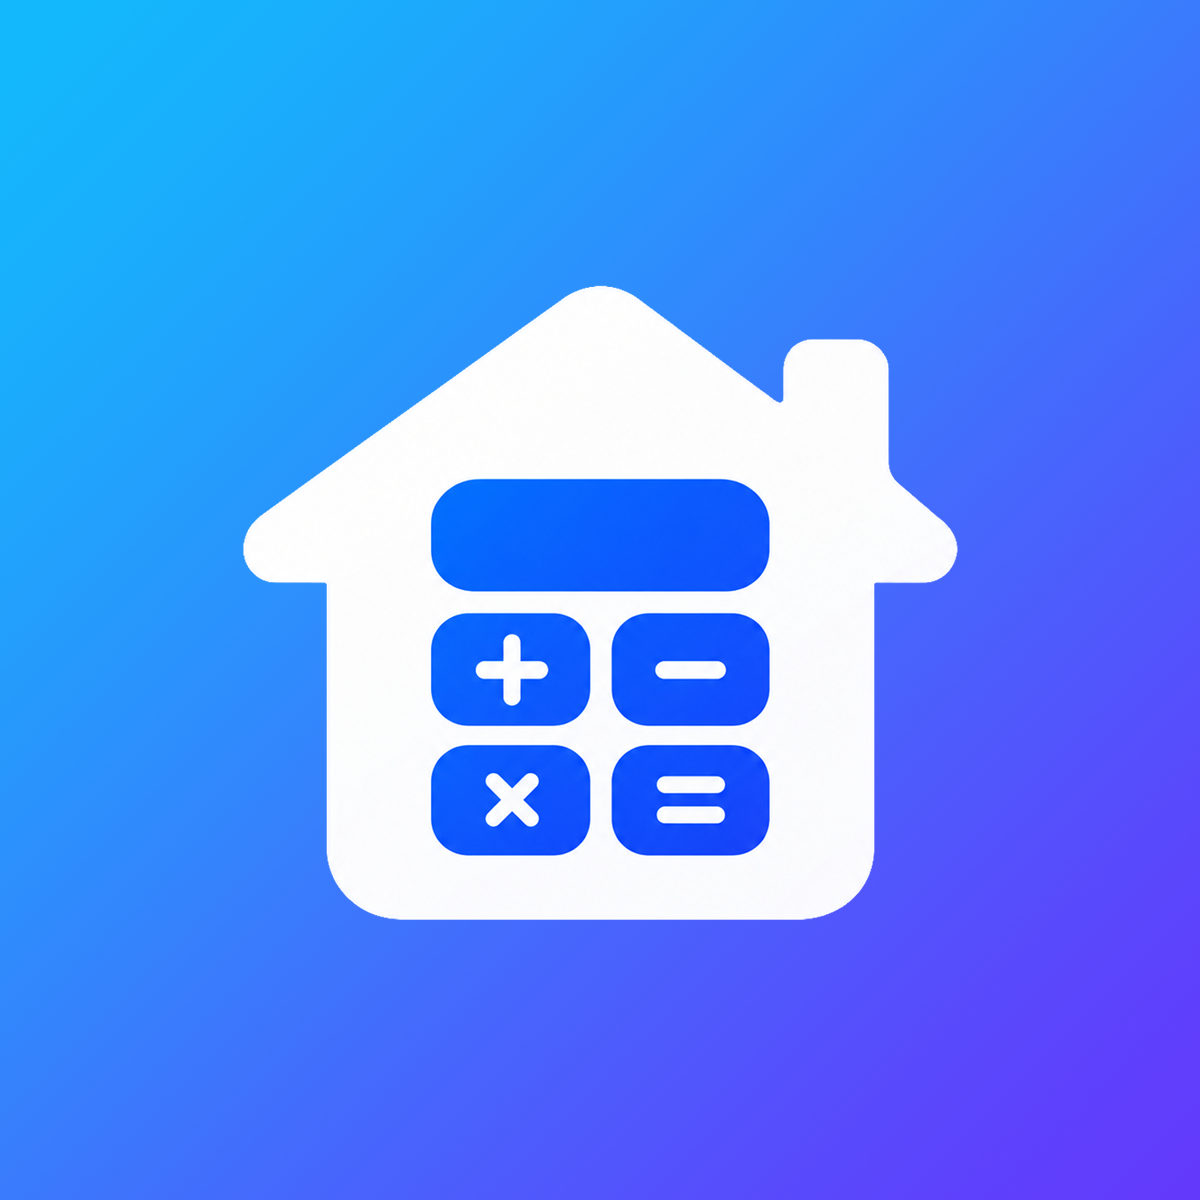
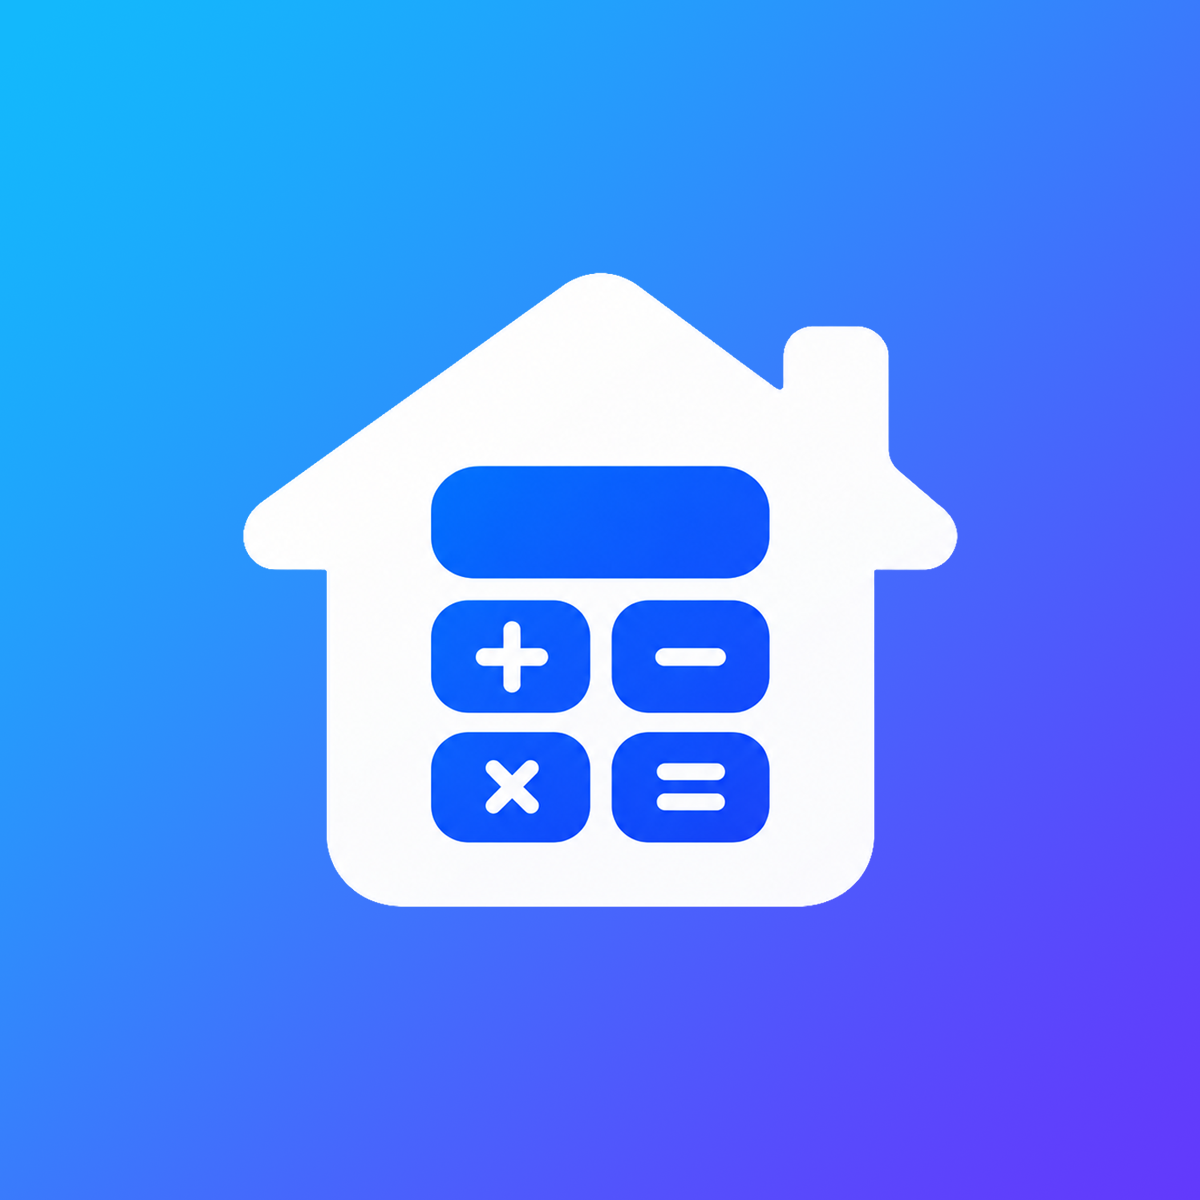
v1.2.2: 앱 아이콘 교체, 환율 기준일·원화 한글 금액, 오프라인 시 마지막 자료 사용, 탭 선택 초기화, 날짜·음력 상단 여백과 음력 글자 크기
Claude-Session: https://claude.ai/code/session_011hLXDGTAa6cmDnXULyPVgt

diff --git a/www/js/tools/exchange.js b/www/js/tools/exchange.js
@@ -87,12 +87,14 @@
       const swap = ui.el('<button type="button" class="swap-btn" aria-label="통화 바꾸기">' + LC.icon('swap', { sw: 2 }) + '</button>');
       const g2 = ui.el('<div class="group"><div class="row"><button type="button" class="cur-btn" data-to aria-label="받을 통화 선택"></button>' +
         '<div class="field"><span class="unit" data-to-sym></span><input type="text" aria-label="받을 금액"/></div></div><div class="field-hint" data-to-name></div></div>');
-      conv.append(g1, swap, g2);
+      const basisLine = ui.el('<div class="fx-basis"></div>');
+      conv.append(g1, swap, g2, basisLine);
       page.appendChild(conv);
       const amountInput = g1.querySelector('input');
-      ui.bindNumber(amountInput, { decimals: 4, maxDigits: 15, value: st.amount, onChange: v => { st.amount = v; st.edited = 'from'; st.save(); calc(); } });
+      // 계산되는 쪽은 비워 두고 시작 (환율 자료가 있을 때만 채움)
+      ui.bindNumber(amountInput, { decimals: 4, maxDigits: 15, value: st.edited === 'to' ? '' : st.amount, onChange: v => { st.amount = v; st.edited = 'from'; st.save(); calc(); } });
       const toInput = g2.querySelector('input');
-      ui.bindNumber(toInput, { decimals: 4, maxDigits: 15, value: st.toAmount, onChange: v => { st.toAmount = v; st.edited = 'to'; st.save(); calc(); } });
+      ui.bindNumber(toInput, { decimals: 4, maxDigits: 15, value: st.edited === 'to' ? st.toAmount : '', onChange: v => { st.toAmount = v; st.edited = 'to'; st.save(); calc(); } });
       [amountInput, toInput].forEach(i => { i.style.fontSize = '22px'; i.style.fontWeight = '700'; });
       const btnFrom = g1.querySelector('[data-from]'), btnTo = g2.querySelector('[data-to]');
       function syncBtns() {
@@ -166,9 +168,17 @@
       function rate(c) { return c === 'usd' ? 1 : data.rates[c]; }
       function krwPer(c, d) { const r = d || data; return r.rates.krw / (c === 'usd' ? 1 : r.rates[c]); }
 
+      // 통화 이름 + 원화일 때 한글 금액 (예: 13만 3,190원)
+      function hints() {
+        const h = (code, val) => {
+          const n = F.parseNum(val);
+          return ui.esc(cur(code).n) + (code === 'krw' && n >= 1 ? ' <span class="kr-amt">' + F.koreanAmount(Math.round(n)) + '</span>' : '');
+        };
+        g1.querySelector('[data-from-name]').innerHTML = h(st.from, st.amount);
+        g2.querySelector('[data-to-name]').innerHTML = h(st.to, st.toAmount);
+      }
       function calc() {
-        g1.querySelector('[data-from-name]').textContent = cur(st.from).n;
-        g2.querySelector('[data-to-name]').textContent = cur(st.to).n;
+        hints();
         g2.querySelector('[data-to-sym]').textContent = cur(st.to).s;
         if (!data || !rate(st.from) || !rate(st.to)) return;
         // 입력한 쪽을 기준으로 반대쪽 금액 계산 (위↔아래 양방향)
@@ -177,11 +187,11 @@
         if (st.edited === 'to') {
           const b = F.parseNum(st.toAmount);
           if (!(b >= 0)) { amountInput.value = ''; return; }
-          st.amount = b / r; amountInput.setNumber(out(st.amount, st.from));
+          st.amount = b / r; amountInput.setNumber(out(st.amount, st.from)); hints();
         } else {
           const a = F.parseNum(st.amount);
           if (!(a >= 0)) { toInput.value = ''; return; }
-          st.toAmount = a * r; toInput.setNumber(out(st.toAmount, st.to));
+          st.toAmount = a * r; toInput.setNumber(out(st.toAmount, st.to)); hints();
         }
         st.save();
       }
@@ -216,6 +226,7 @@
         if (!data) list.innerHTML = '<div class="row"><span class="skeleton" style="width:100%">loading</span></div>'.repeat(5);
         try {
           data = await LC.market.fxLatest(force);
+          basisLine.innerHTML = data.date + ' 기준 환율 · 하루 1회 갱신' + (data.stale ? ' · <b class="down">인터넷 연결 없음 — 마지막으로 받은 환율</b>' : '');
           status.innerHTML = '<span>기준일 ' + data.date + (data.stale ? ' · <b class="down">오프라인(저장된 시세)</b>' : '') + '</span><span>' + LC.ago(data.cachedAt) + ' 확인</span>';
           calc(); drawList();
           try { prev = await LC.market.fxOn(prevDate(data.date)); drawList(); } catch (e) { /* 전일 데이터 없음 */ }

diff --git a/www/js/net.js b/www/js/net.js
@@ -45,7 +45,20 @@
     throw lastErr || new Error('no data');
   }
 
+  // 접두어가 같은 저장 자료 중 가장 최근 것
+  function lastCacheWithPrefix(prefix) {
+    let best = null;
+    try {
+      Object.keys(localStorage).filter(k => k.startsWith('lifecalc.' + prefix)).forEach(k => {
+        const v = JSON.parse(localStorage.getItem(k));
+        if (v && (!best || v.t > best.t)) best = v;
+      });
+    } catch (e) {}
+    return best;
+  }
+
   // 캐시: 유효시간 안이면 저장값, 실패 시 오래된 값이라도 반환(stale 표시)
+  // 저장된 값이 전혀 없으면 오류 → 화면에서 값을 표시하지 않음
   async function cached(key, maxAgeMs, loader, force) {
     const c = store.get('cache.' + key, null);
     if (!force && c && Date.now() - c.t < maxAgeMs) return Object.assign({ cachedAt: c.t }, c.data);
@@ -175,11 +188,20 @@
     }), force);
   }
   async function weatherArchive(lat, lon, start, end) {
-    const key = 'wx.a.' + lat.toFixed(2) + ',' + lon.toFixed(2) + '.' + start + '.' + end;
-    store.removePrefix('cache.wx.a.', 'cache.' + key); // 과거 자료는 최근 조회 1건만 보관 (저장공간 절약)
-    return cached(key, 7 * 864e5, async () => ({
-      days: await wxGet('https://archive-api.open-meteo.com/v1/archive', ll(lat, lon) + '&start_date=' + start + '&end_date=' + end)
-    }));
+    const loc = 'wx.a.' + lat.toFixed(2) + ',' + lon.toFixed(2) + '.';
+    const key = loc + start + '.' + end;
+    try {
+      const r = await cached(key, 7 * 864e5, async () => ({
+        days: await wxGet('https://archive-api.open-meteo.com/v1/archive', ll(lat, lon) + '&start_date=' + start + '&end_date=' + end)
+      }));
+      store.removePrefix('cache.wx.a.', 'cache.' + key); // 과거 자료는 최근 조회 1건만 보관 (저장공간 절약)
+      return r;
+    } catch (e) {
+      // 인터넷이 안 될 때: 같은 지역의 마지막으로 받은 과거 자료 사용
+      const old = lastCacheWithPrefix('cache.' + loc);
+      if (old) return Object.assign({ cachedAt: old.t, stale: true }, old.data);
+      throw e;
+    }
   }
   LC.weather = { recent: weatherRecent, archive: weatherArchive };
 

diff --git a/www/js/tools/lunar.js b/www/js/tools/lunar.js
@@ -33,15 +33,16 @@
     id: 'lunar', title: '음력 변환', short: '음력', icon: 'lunar', color: ['#7D7AFF', '#5856D6'],
     render(page) {
       const t = F.todayYMD();
-      const st = ui.toolState('lunar', { mode: 'l2s', ly: t.y, lm: 1, ld: 1, leap: false, solar: '' });
+      const st = ui.toolState('lunar', { mode: 'l2s', ly: t.y, lm: 1, ld: 1, leap: false, solar: '' }, ['mode']);
 
       // 오늘
       const today = solarToLunar(t.y, t.m, t.d);
       page.appendChild(ui.el(
-        '<div class="result-card" style="margin-top:4px">' +
-        '<div class="result-label">오늘 · ' + F.dateLabel(t) + '</div>' +
-        '<div class="result-main" style="font-size:30px">' + (today ? lunarLabel(today).replace('음력 ', '음력 ').replace(/^음력 \d+년 /, '음력 ') : '-') + '</div>' +
-        (today ? '<div class="result-sub">' + today.gapja.year + ' ' + today.gapja.month + ' ' + today.gapja.day + ' · ' + animal(today.gapja) + '</div>' : '') +
+        '<div class="result-card lunar-today">' +
+        '<span class="lt-badge">오늘</span>' +
+        '<div class="lt-solar">양력 ' + F.dateLabel(t) + '</div>' +
+        '<div class="lt-lunar">' + (today ? '음력 ' + (today.intercalation ? '윤' : '') + today.month + '월 ' + today.day + '일' : '-') + '</div>' +
+        (today ? '<div class="lt-ganji">' + today.gapja.year + ' ' + today.gapja.month + ' ' + today.gapja.day + '<span class="lt-animal">' + animal(today.gapja) + '</span></div>' : '') +
         '</div>'));
 
       page.appendChild(ui.el('<div class="mt24"></div>'));
@@ -51,7 +52,7 @@
 
       function draw() {
         box.innerHTML = '';
-        const res = ui.el('<div class="result-card"></div>');
+        const res = ui.el('<div class="result-card lunar-res"></div>');
         if (st.mode === 'l2s') {
           box.appendChild(ui.group([
             ui.numberRow({ label: '음력 연도', unit: '년', value: st.ly, decimals: 0, comma: false, maxDigits: 4, onChange: v => { st.ly = v; st.save(); calc(); } }),

diff --git a/www/css/app.css b/www/css/app.css
@@ -743,3 +743,17 @@ a { color: inherit; text-decoration: none; }
 .chips.one-line { flex-wrap: nowrap; overflow-x: auto; scrollbar-width: none; }
 .chips.one-line::-webkit-scrollbar { display: none; }
 .chips.one-line .chip { flex: none; }
+
+.fx-basis { font-size: 11.5px; color: var(--text-2); text-align: right; margin: 6px 6px 0; }
+.kr-amt { color: var(--text-2); font-size: 11.5px; margin-left: 4px; }
+
+/* 음력 화면 상단 오늘 카드 */
+.lunar-today { margin-top: 14px !important; }
+.lt-badge { display: inline-block; font-size: 12px; font-weight: 700; color: var(--accent); background: var(--accent-soft); border-radius: 6px; padding: 2px 8px; }
+.lt-solar { font-size: 18px; font-weight: 600; margin-top: 10px; }
+.lt-lunar { font-size: 28px; font-weight: 700; letter-spacing: -0.02em; margin-top: 2px; }
+.lt-ganji { font-size: 15px; color: var(--text-2); margin-top: 6px; display: flex; align-items: center; gap: 8px; flex-wrap: wrap; }
+.lt-animal { font-size: 13px; font-weight: 600; color: var(--text); background: var(--fill); border-radius: 6px; padding: 2px 8px; }
+.lunar-res .result-label { font-size: 15px; color: var(--text); font-weight: 500; }
+.lunar-res .result-main { font-size: 26px !important; margin-top: 6px; }
+.lunar-res .result-sub { font-size: 15px; }

diff --git a/www/js/tools/pastweather.js b/www/js/tools/pastweather.js
@@ -56,7 +56,7 @@
     info: info,
     render(page) {
       const seoul = LC.KR_CITIES[0];
-      const st = ui.toolState('pastweather', { loc: { name: seoul.name, region: seoul.region, lat: seoul.lat, lon: seoul.lon, gps: false }, tab: 0 });
+      const st = ui.toolState('pastweather', { loc: { name: seoul.name, region: seoul.region, lat: seoul.lat, lon: seoul.lon, gps: false }, tab: 0 }, ['tab']);
       const t = F.todayYMD();
       const todayStr = F.ymdStr(t);
 
@@ -137,7 +137,7 @@
         }
         const recent = rec.status === 'fulfilled' ? rec.value : null;
         const past = arc.status === 'fulfilled' ? arc.value.days : [];
-        status.innerHTML = '<span>' + t.y + '년 ' + t.m + '월 ' + t.d + '일 기준' + (recent && recent.stale ? ' · 저장된 자료' : '') + '</span><span>' + (recent ? LC.ago(recent.cachedAt) + ' 확인' : '') + '</span>';
+        status.innerHTML = '<span>' + t.y + '년 ' + t.m + '월 ' + t.d + '일 기준' + (recent && recent.stale ? ' · <b class="down">인터넷 연결 없음 — 마지막으로 받은 자료</b>' : '') + '</span><span>' + (recent ? LC.ago(recent.cachedAt) + ' 확인' : '') + '</span>';
         draw(recent ? recent.days : [], past);
       }
 

diff --git a/www/js/tools/dday.js b/www/js/tools/dday.js
@@ -210,12 +210,14 @@
     id: 'dday', title: '날짜 계산기', short: '날짜·D-Day', icon: 'dday', color: ['#FF6259', '#E5322A'],
     render(page) {
       seed();
-      const st = ui.toolState('dday', { tab: 'list' });
+      const st = ui.toolState('dday', { tab: 'list' }, ['tab']);
       const addBtn = ui.el('<button class="nav-btn icon-only" aria-label="추가">' + LC.icon('plus', { sw: 2.2 }) + '</button>');
       page.nav.querySelector('.nav-right').appendChild(addBtn);
       addBtn.onclick = () => editSheet(null, drawList);
 
-      page.appendChild(ui.segmented([{ value: 'list', label: 'D-Day 목록' }, { value: 'calc', label: '날짜 계산' }], st.tab, v => { st.tab = v; st.save(); show(); }, 'wide'));
+      const tabs = ui.segmented([{ value: 'list', label: 'D-Day 목록' }, { value: 'calc', label: '날짜 계산' }], st.tab, v => { st.tab = v; st.save(); show(); }, 'wide');
+      tabs.style.marginTop = '14px';
+      page.appendChild(tabs);
       const box = ui.el('<div></div>');
       page.appendChild(box);
 

diff --git a/www/js/tools/calorie.js b/www/js/tools/calorie.js
@@ -70,7 +70,7 @@
     id: 'calorie', title: '칼로리 계산기', short: '칼로리', icon: 'calorie', color: ['#FF9F43', '#EE5A24'],
     info: info,
     render(page) {
-      const st = ui.toolState('calorie', { mode: 'burn', kcal: 500, foods: [], weight: 65, act: 'run', min: 30, useBmr: true, sex: 'm', age: 35, height: 170 });
+      const st = ui.toolState('calorie', { mode: 'burn', kcal: 500, foods: [], weight: 65, act: 'run', min: 30, useBmr: true, sex: 'm', age: 35, height: 170 }, ['mode']);
       if (!Array.isArray(st.foods)) st.foods = [];
       page.appendChild(ui.segmented([{ value: 'burn', label: '칼로리 → 운동 시간' }, { value: 'act', label: '운동 → 소모 칼로리' }], st.mode, v => { st.mode = v; st.save(); draw(); }, 'wide'));
       const box = ui.el('<div></div>');

diff --git a/www/js/tools/loan.js b/www/js/tools/loan.js
@@ -45,7 +45,7 @@
   LC.registerTool({
     id: 'loan', title: '대출 계산기', short: '대출', icon: 'loan', color: ['#3D9BFF', '#0066E0'],
     render(page) {
-      const st = ui.toolState('loan', { method: 'equal', amount: 100000000, rate: 4.5, period: 30, periodUnit: 'y', grace: 0, graceUnit: 'y' });
+      const st = ui.toolState('loan', { method: 'equal', amount: 100000000, rate: 4.5, period: 30, periodUnit: 'y', grace: 0, graceUnit: 'y' }, ['method']);
 
       page.appendChild(ui.segmented(METHODS, st.method, v => { st.method = v; st.save(); help.textContent = METHOD_HELP[v]; graceRow.classList.toggle('hidden', v === 'bullet'); calc(); }, 'wide'));
       const help = ui.el('<p class="footnote" style="margin:-6px 4px 14px">' + METHOD_HELP[st.method] + '</p>');

diff --git a/www/js/tools/bodyfat.js b/www/js/tools/bodyfat.js
@@ -23,7 +23,7 @@
     id: 'bodyfat', title: '체지방 계산기', short: '체지방', icon: 'bodyfat', color: ['#FF8A65', '#F4511E'],
     info: info,
     render(page) {
-      const st = ui.toolState('bodyfat', { method: 'simple', sex: 'm', age: 35, height: 170, weight: 65, neck: 37, waist: 82, hip: 95 });
+      const st = ui.toolState('bodyfat', { method: 'simple', sex: 'm', age: 35, height: 170, weight: 65, neck: 37, waist: 82, hip: 95 }, ['method']);
       page.appendChild(ui.segmented([{ value: 'simple', label: '간편 추정 (BMI)' }, { value: 'navy', label: '둘레 측정 (정밀)' }], st.method, v => { st.method = v; st.save(); draw(); }, 'wide'));
       const box = ui.el('<div></div>');
       page.appendChild(box);

diff --git a/www/js/tools/savings.js b/www/js/tools/savings.js
@@ -10,7 +10,7 @@
   LC.registerTool({
     id: 'savings', title: '예적금 계산기', short: '예적금', icon: 'savings', color: ['#FFB340', '#FF8A00'],
     render(page) {
-      const st = ui.toolState('savings', { type: 'installment', compound: 'simple', amount: 500000, rate: 3.5, period: 12, periodUnit: 'm', tax: 15.4 });
+      const st = ui.toolState('savings', { type: 'installment', compound: 'simple', amount: 500000, rate: 3.5, period: 12, periodUnit: 'm', tax: 15.4 }, ['type']);
 
       page.appendChild(ui.segmented([{ value: 'installment', label: '적금 (매월 납입)' }, { value: 'deposit', label: '예금 (목돈 예치)' }], st.type, v => {
         st.type = v; st.save(); amtLabel(); calc();

diff --git a/www/js/tools/gold.js b/www/js/tools/gold.js
@@ -15,7 +15,7 @@
     id: 'gold', title: '금값 시세', short: '금값', icon: 'gold', color: ['#F7CE46', '#D69A0B'], refreshable: true,
     render(page) {
       // basis: 대표 시세 기준 ('g' = 1g, 'don' = 1돈) — 기본 1g
-      const st = ui.toolState('gold2', { vat: false, weight: 1, unit: 'g', purity: '24', basis: 'g' });
+      const st = ui.toolState('gold2', { vat: false, weight: 1, unit: 'g', purity: '24', basis: 'g' }, ['basis']);
       const BASIS = () => st.basis === 'don' ? DON : 1;
       const basisName = () => st.basis === 'don' ? '순금 1돈 (3.75g)' : '순금 1g';
       let data = null, prev = null;

diff --git a/www/js/tools/discount.js b/www/js/tools/discount.js
@@ -5,7 +5,7 @@
   LC.registerTool({
     id: 'discount', title: '할인 계산기', short: '할인', icon: 'discount', color: ['#FF5E7E', '#FF2D55'],
     render(page) {
-      const st = ui.toolState('discount', { mode: 'price', price: 50000, rate: 20, extra: '', sale: '' });
+      const st = ui.toolState('discount', { mode: 'price', price: 50000, rate: 20, extra: '', sale: '' }, ['mode']);
       const modeSeg = ui.segmented([
         { value: 'price', label: '할인가 계산' }, { value: 'rate', label: '할인율 계산' }
       ], st.mode, v => { st.mode = v; st.save(); draw(); }, 'wide');
